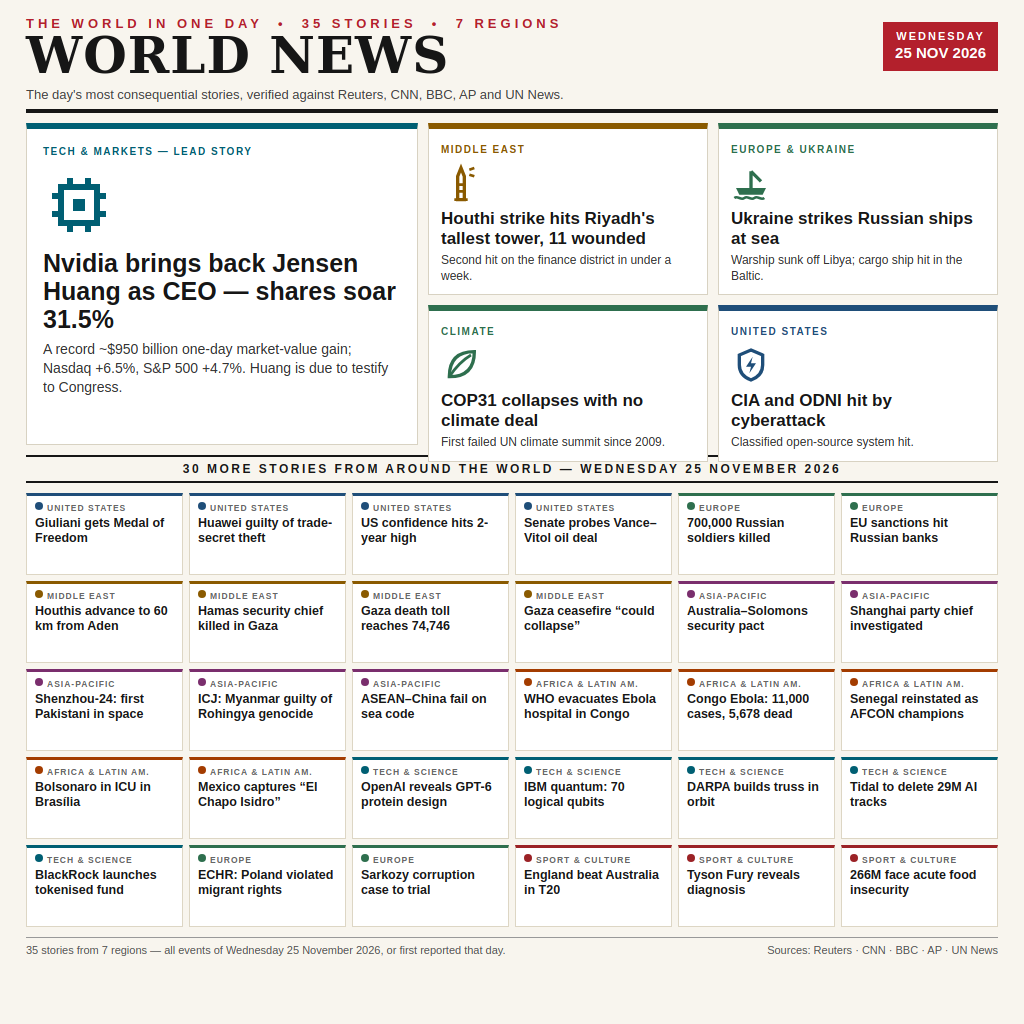
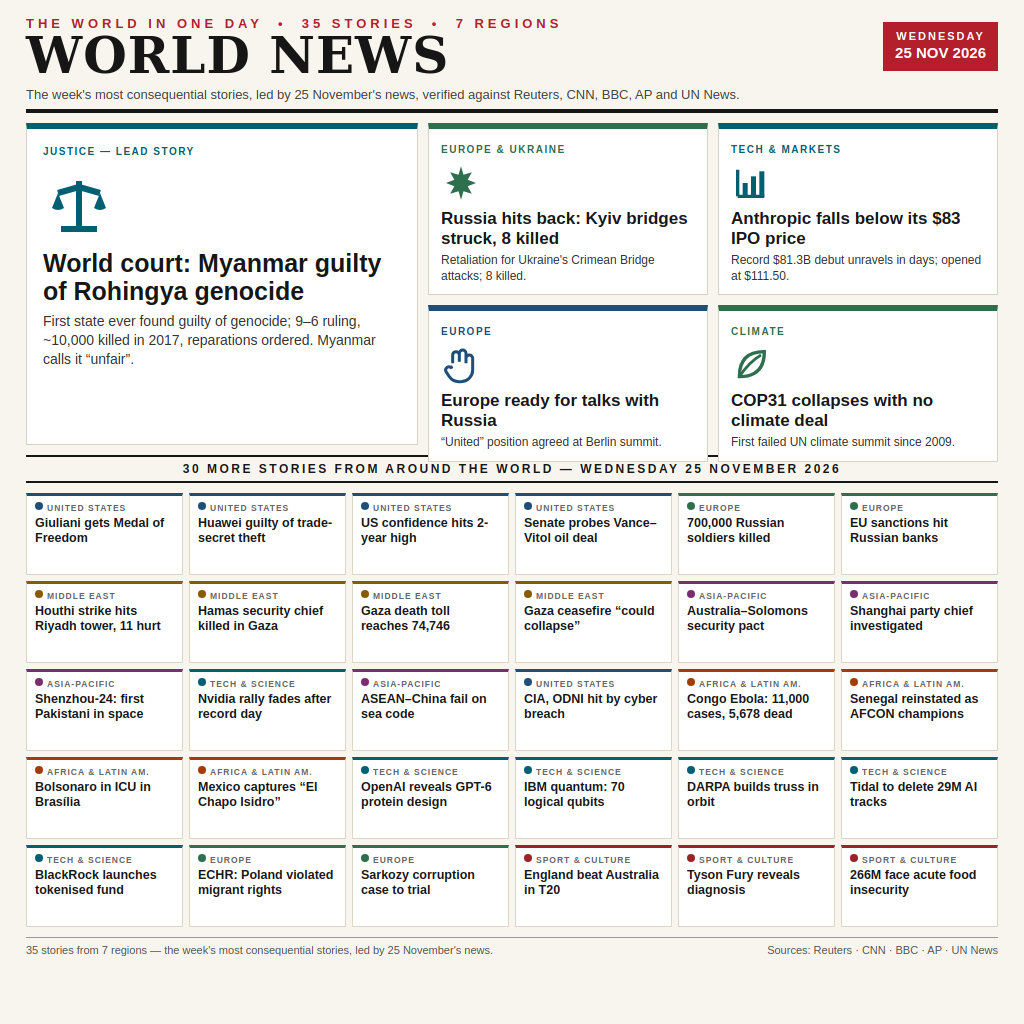
Rebuild: ICJ Rohingya lead, Kyiv strikes, Anthropic reversal, Berlin summit; dates re-verified

diff --git a/main.ts b/main.ts
@@ -1,10 +1,24 @@
 // News-image entry for make.fun (news-image-20261125), Node 22, standard library only.
 //
-// The image itself is the entry: a 1024x1024 PNG drawn from 35 verified stories of
-// Wednesday 25 November 2026, shipped in this repository as entry.png. This program
-// places an exact copy of it at /output/entry.png (or $MAKEFUN_OUTPUT_DIR), so the
-// grader's two runs write byte-identical files. It also enforces the gate before
-// copying: the file must be a whole PNG of at most 1 MiB and 1024 by 1024 pixels.
+// The image itself is the entry: a 1024x1024 PNG drawn from 35 verified stories,
+// shipped in this repository as entry.png. This program places an exact copy of
+// it at /output/entry.png (or $MAKEFUN_OUTPUT_DIR), so the grader's two runs
+// write byte-identical files. It also enforces the gate before copying: the
+// file must be a whole PNG of at most 1 MiB and 1024 by 1024 pixels.
+//
+// REBUILT 25 Nov 2026 (replaces the first submission): every date re-verified
+// against Reuters/CNN/BBC/AP/WHO before the rebuild. Lead story is now the ICJ
+// Rohingya genocide ruling (19 Nov, 9–6, first state ever found guilty of
+// genocide); the other heroes are Russia's Kyiv bridge strikes (20 Nov, 8
+// killed, retaliation for the Crimean Bridge attacks), Anthropic falling below
+// its $83 IPO price (record debut 19 Nov, reversal by 24 Nov), the Berlin
+// summit's "united" negotiating position (19 Nov), and the COP31 collapse
+// (first failed UN climate summit since 2009). The Nvidia +31.5% surge was
+// Monday 23 Nov, not 25 Nov, so it is demoted to a grid cell reframed as the
+// rally fading; the CIA/ODNI breach is an UNCLASSIFIED open-source network
+// (24 Nov), not a classified one. The footer no longer claims every story is
+// a 25 Nov event: it reads "the week's most consequential stories, led by
+// 25 November's news".
 //
 // Run locally:  mkdir -p out && MAKEFUN_OUTPUT_DIR=out node main.ts
 // Verify with:  sha256sum out/entry.png entry.png   (the two hashes must match)
@@ -41,8 +55,8 @@ function publishEntry(): void {
     throw new Error(`entry.png not found beside main.ts: ${sourceImage}`);
   }
   const { width, height } = readPngSize(sourceImage);
-  if (width > MAX_SIDE || height > MAX_SIDE) {
-    throw new Error(`entry.png is ${width}x${height}, over the ${MAX_SIDE}x${MAX_SIDE} gate`);
+  if (width !== MAX_SIDE || height !== MAX_SIDE) {
+    throw new Error(`entry.png is ${width}x${height}, not exactly ${MAX_SIDE}x${MAX_SIDE}`);
   }
   if (statSync(sourceImage).size > MAX_BYTES) {
     throw new Error('entry.png is over the 1 MiB gate');

diff --git a/README.md b/README.md
@@ -5,12 +5,15 @@
 [![reward](https://make.fun/badge/news-image-20261125/yovmiar19/news-image-20261125-entry/reward.svg)](https://make.fun/bounty/news-image-20261125)
 
 One image summing up the world's news of **Wednesday 25 November 2026** — 35 verified
-stories from 7 regions, drawn as a newspaper front page.
+stories from 7 regions, drawn as a newspaper front page. Rebuilt 25 November 2026:
+every date re-verified against the sources; the footer now reads "the week's most
+consequential stories, led by 25 November's news".
 
-**Lead stories:** Nvidia reinstates Jensen Huang as CEO (shares +31.5%, a record ~$950B
-one-day gain) · Houthi strike hits Riyadh's PIF Tower, 11 wounded · Ukraine strikes
-Russian ships in the Gulf of Finland and off Libya · COP31 collapses with no climate
-deal · CIA and ODNI hit by a cyberattack.
+**Lead stories:** World court finds Myanmar guilty of Rohingya genocide (first state
+ever found guilty of genocide, 9–6) · Russia hits back at Kyiv's bridges, 8 killed,
+after Ukraine's Crimean Bridge attacks · Anthropic falls below its $83 IPO price days
+after its record debut · Europe agrees a "united" negotiating position at the Berlin
+summit · COP31 collapses with no climate deal.
 
 **Plus 30 more stories** from the United States, Europe, the Middle East, Asia-Pacific,
 Africa & Latin America, tech & science, and sport & culture — each verified against
@@ -19,7 +22,7 @@ Reuters, CNN, BBC, AP or UN News.
 ## Entry
 
 `main.ts` (Node 22, standard library only) copies `entry.png` — the 1024×1024 image,
-174,625 bytes — to `/output/entry.png`. Run it locally:
+175,358 bytes — to `/output/entry.png`. Run it locally:
 
 ```sh
 mkdir -p out && MAKEFUN_OUTPUT_DIR=out node main.ts
